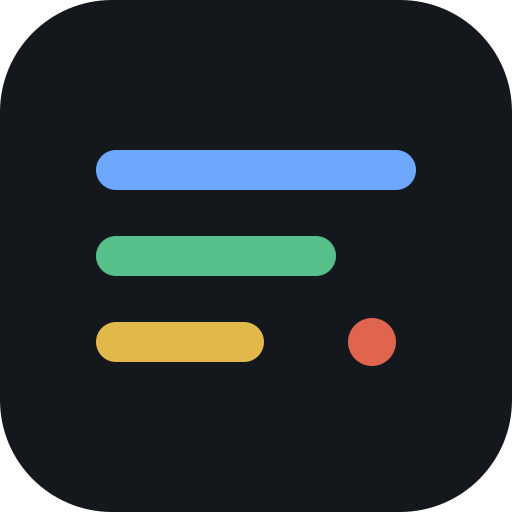
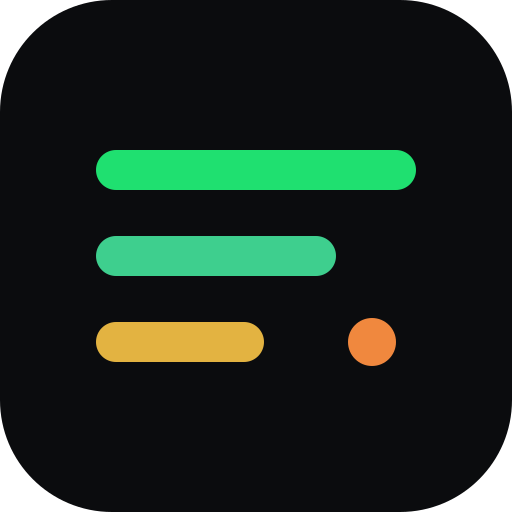
feat(web): Mastra-grade reskin — command center, docs site, brand mark

Changed region(s): [[0.1875, 0.2812, 0.8125, 0.375], [0.1875, 0.4375, 0.6562, 0.5625], [0.6562, 0.625, 0.7812, 0.7188]]

diff --git a/src/web/index.html b/src/web/index.html
@@ -4,7 +4,7 @@
 <meta charset="utf-8" />
 <meta name="viewport" content="width=device-width, initial-scale=1, viewport-fit=cover" />
 <title>omp-squad · command center</title>
-<meta name="theme-color" content="#0c0e12" />
+<meta name="theme-color" content="#060607" />
 <meta name="color-scheme" content="light dark" />
 <link rel="manifest" href="/manifest.webmanifest" />
 <link rel="icon" href="/icon.svg" />
@@ -21,7 +21,7 @@
   if(t==="light"||t==="dark")document.documentElement.dataset.theme=t;
   var eff=t||(matchMedia("(prefers-color-scheme: light)").matches?"light":"dark");
   var m=document.querySelector('meta[name="theme-color"]');
-  if(m)m.content=eff==="light"?"#f6f7f9":"#0c0e12";
+  if(m)m.content=eff==="light"?"#f6f7f9":"#060607";
 }catch(e){}})();
 </script>
 <style>
@@ -37,33 +37,34 @@
     /* typography */
     --font-sans: ui-sans-serif,system-ui,-apple-system,"Segoe UI",Roboto,Helvetica,Arial,sans-serif;
     --font-mono: ui-monospace,SFMono-Regular,"SF Mono",Menlo,Consolas,"Liberation Mono",monospace;
-    --fs-11:11px; --fs-12:12px; --fs-13:13px; --fs-14:14px; --fs-15:15px; --fs-16:16px; --fs-20:20px; --fs-24:24px;
+    --fs-11:11px; --fs-12:12px; --fs-13:13px; --fs-14:14px; --fs-15:15px; --fs-16:16px; --fs-20:20px; --fs-24:24px; --fs-28:28px; --fs-32:32px;
     --fw-normal:400; --fw-medium:500; --fw-semibold:600; --fw-bold:700;
-    --lh-tight:1.25; --lh-base:1.45; --lh-relaxed:1.6;
+    --lh-tight:1.2; --lh-base:1.45; --lh-relaxed:1.6;
     /* spacing — 4px base */
     --sp-1:4px; --sp-2:8px; --sp-3:12px; --sp-4:16px; --sp-5:20px; --sp-6:24px; --sp-8:32px;
     /* radius */
-    --r-sm:5px; --r-md:8px; --r-lg:12px; --r-full:999px;
+    --r-sm:6px; --r-md:10px; --r-lg:14px; --r-full:999px;
     /* motion */
-    --dur-fast:.12s; --dur-base:.2s; --ease:cubic-bezier(.2,.7,.2,1);
+    --dur-fast:.09s; --dur-base:.16s; --ease:cubic-bezier(.4,0,.2,1);
   }
-  /* ── DARK (default) ───────────────────────────────────────────────────────── */
+  /* ── DARK (default) — near-black canvas · hairline borders · one green signal ── */
   :root, html[data-theme="dark"] {
     color-scheme: dark;
-    --surface-0:#0c0e12; --surface-1:#13161b; --surface-2:#1a1e25; --surface-3:#21262e;
-    --border:#272d36; --border-strong:#39414c;
-    --text-1:#e7eaee; --text-2:#9aa6b2; --text-3:#828e9b;
-    --accent:#5b9dfb; --accent-hover:#7fb2fc; --accent-subtle:#16243a; --on-accent:#08111c;
-    --success:#56c08a; --success-subtle:#142a20;
-    --warning:#e0b54a; --warning-subtle:#2b2613;
-    --attention:#ec8467; --attention-subtle:#2e1c15;
-    --danger:#ef6a5e;  --danger-subtle:#2e1714;
-    --neutral:#828e9b; --neutral-subtle:#1c222a;
+    --surface-0:#060607; --surface-1:#0d0e10; --surface-2:#141518; --surface-3:#1b1d21;
+    --border:rgba(255,255,255,.08); --border-strong:rgba(255,255,255,.17);
+    --text-1:#eceef0; --text-2:#9a9ca1; --text-3:#6e7278;
+    --accent:#1fe070; --accent-hover:#46ed8d; --accent-subtle:#0c2a1a; --on-accent:#04140b;
+    --success:#3ecf8e; --success-subtle:#0f2a1d;
+    --warning:#e3b341; --warning-subtle:#2a2310;
+    --attention:#f0883e; --attention-subtle:#2e1d10;
+    --danger:#f7574f;  --danger-subtle:#2c1413;
+    --neutral:#7d828b; --neutral-subtle:#16181c;
     --info:var(--accent); --info-subtle:var(--accent-subtle);
-    --ring:#5b9dfb; --overlay:rgba(4,6,9,.62);
-    --shadow-1:0 1px 2px rgba(0,0,0,.40);
-    --shadow-2:0 4px 14px rgba(0,0,0,.45);
-    --shadow-3:0 16px 40px rgba(0,0,0,.55);
+    --ring:#1fe070; --overlay:rgba(0,0,0,.66);
+    --glow:color-mix(in srgb, var(--accent) 14%, transparent); --glow2:color-mix(in srgb, var(--accent) 7%, transparent);
+    --shadow-1:0 1px 2px rgba(0,0,0,.5);
+    --shadow-2:0 8px 24px -14px rgba(0,0,0,.7);
+    --shadow-3:0 28px 70px -28px rgba(0,0,0,.8);
     /* legacy aliases */
     --bg:var(--surface-0); --panel:var(--surface-1); --panel2:var(--surface-2); --line:var(--border);
     --ink:var(--text-1); --mut:var(--text-2); --dim:var(--text-3);
@@ -75,17 +76,18 @@
     --surface-0:#f6f7f9; --surface-1:#ffffff; --surface-2:#eef0f3; --surface-3:#e6e9ed;
     --border:#dde1e6; --border-strong:#c2c9d1;
     --text-1:#11161c; --text-2:#566069; --text-3:#636d79;
-    --accent:#2563eb; --accent-hover:#1d4ed8; --accent-subtle:#eaf1fd; --on-accent:#ffffff;
+    --accent:#0a8f4d; --accent-hover:#077a41; --accent-subtle:#e2f6ea; --on-accent:#ffffff;
     --success:#15724b; --success-subtle:#e1f4ea;
     --warning:#80600a; --warning-subtle:#faedca;
-    --attention:#bd3d09; --attention-subtle:#fcebe1;
+    --attention:#b5460c; --attention-subtle:#fcebe1;
     --danger:#bf3128;  --danger-subtle:#fde8e5;
     --neutral:#636d79; --neutral-subtle:#ececef;
     --info:var(--accent); --info-subtle:var(--accent-subtle);
-    --ring:#2563eb; --overlay:rgba(16,24,40,.32);
+    --ring:#0a8f4d; --overlay:rgba(16,24,40,.32);
+    --glow:transparent; --glow2:transparent;
     --shadow-1:0 1px 2px rgba(16,24,40,.06);
-    --shadow-2:0 4px 14px rgba(16,24,40,.08);
-    --shadow-3:0 16px 40px rgba(16,24,40,.14);
+    --shadow-2:0 8px 24px -14px rgba(16,24,40,.12);
+    --shadow-3:0 24px 60px -28px rgba(16,24,40,.18);
     --bg:var(--surface-0); --panel:var(--surface-1); --panel2:var(--surface-2); --line:var(--border);
     --ink:var(--text-1); --mut:var(--text-2); --dim:var(--text-3);
     --ok:var(--success); --work:var(--warning); --input:var(--attention); --err:var(--danger); --stop:var(--neutral);
@@ -97,26 +99,27 @@
       --surface-0:#f6f7f9; --surface-1:#ffffff; --surface-2:#eef0f3; --surface-3:#e6e9ed;
       --border:#dde1e6; --border-strong:#c2c9d1;
       --text-1:#11161c; --text-2:#566069; --text-3:#636d79;
-      --accent:#2563eb; --accent-hover:#1d4ed8; --accent-subtle:#eaf1fd; --on-accent:#ffffff;
+      --accent:#0a8f4d; --accent-hover:#077a41; --accent-subtle:#e2f6ea; --on-accent:#ffffff;
       --success:#15724b; --success-subtle:#e1f4ea;
       --warning:#80600a; --warning-subtle:#faedca;
-      --attention:#bd3d09; --attention-subtle:#fcebe1;
+      --attention:#b5460c; --attention-subtle:#fcebe1;
       --danger:#bf3128;  --danger-subtle:#fde8e5;
       --neutral:#636d79; --neutral-subtle:#ececef;
       --info:var(--accent); --info-subtle:var(--accent-subtle);
-      --ring:#2563eb; --overlay:rgba(16,24,40,.32);
+      --ring:#0a8f4d; --overlay:rgba(16,24,40,.32);
+      --glow:transparent; --glow2:transparent;
       --shadow-1:0 1px 2px rgba(16,24,40,.06);
-      --shadow-2:0 4px 14px rgba(16,24,40,.08);
-      --shadow-3:0 16px 40px rgba(16,24,40,.14);
+      --shadow-2:0 8px 24px -14px rgba(16,24,40,.12);
+      --shadow-3:0 24px 60px -28px rgba(16,24,40,.18);
       --bg:var(--surface-0); --panel:var(--surface-1); --panel2:var(--surface-2); --line:var(--border);
       --ink:var(--text-1); --mut:var(--text-2); --dim:var(--text-3);
       --ok:var(--success); --work:var(--warning); --input:var(--attention); --err:var(--danger); --stop:var(--neutral);
     }
   }
   * { box-sizing:border-box; }
-  body { margin:0; font:var(--fs-14)/var(--lh-base) var(--font-sans); background:var(--bg); color:var(--ink); height:100vh; display:flex; flex-direction:column; -webkit-font-smoothing:antialiased; text-rendering:optimizeLegibility; }
+  body { margin:0; font:var(--fs-14)/var(--lh-base) var(--font-sans); background:radial-gradient(1100px 620px at 88% -12%, var(--glow,transparent), transparent 60%), radial-gradient(820px 520px at 2% -2%, var(--glow2,transparent), transparent 58%), var(--bg); background-attachment:fixed; color:var(--ink); height:100vh; display:flex; flex-direction:column; -webkit-font-smoothing:antialiased; text-rendering:optimizeLegibility; }
   a { color:var(--accent); text-decoration:none; }
-  header { display:flex; align-items:center; gap:var(--sp-3); padding:var(--sp-3) var(--sp-4); border-bottom:1px solid var(--border); background:var(--surface-1); }
+  header { display:flex; align-items:center; gap:var(--sp-3); padding:var(--sp-3) var(--sp-4); border-bottom:1px solid var(--border); background:color-mix(in srgb, var(--surface-0) 82%, transparent); backdrop-filter:saturate(140%) blur(10px); -webkit-backdrop-filter:saturate(140%) blur(10px); }
   header h1 { display:inline-flex; align-items:baseline; gap:var(--sp-2); font-size:var(--fs-15); margin:0; letter-spacing:-.01em; font-weight:var(--fw-semibold); color:var(--text-1); white-space:nowrap; }
   header h1 .sq { color:var(--accent); }
   header h1 .cc { font-size:var(--fs-12); font-weight:var(--fw-normal); letter-spacing:0; color:var(--text-3); }
@@ -131,8 +134,8 @@
   .offline { background:var(--danger); color:var(--on-accent); text-align:center; padding:var(--sp-2) var(--sp-3); font-size:var(--fs-13); font-weight:var(--fw-semibold); }
   .visually-hidden { position:absolute; width:1px; height:1px; margin:-1px; padding:0; overflow:hidden; clip:rect(0 0 0 0); white-space:nowrap; border:0; }
   button { font:inherit; background:var(--surface-2); color:var(--text-1); border:1px solid var(--border); border-radius:var(--r-sm); padding:6px 12px; cursor:pointer; }
-  button:hover { border-color:var(--border-strong); } button.primary { background:var(--accent); color:var(--on-accent); border-color:var(--accent); font-weight:var(--fw-semibold); }
-  button.primary:hover { background:var(--accent-hover); border-color:var(--accent-hover); } button.danger:hover { border-color:var(--danger); color:var(--danger); } button.sm { padding:3px 8px; font-size:var(--fs-12); }
+  button:hover { border-color:var(--border-strong); } button.primary { background:var(--accent); color:var(--on-accent); border-color:var(--accent); font-weight:var(--fw-semibold); box-shadow:0 8px 22px -12px color-mix(in srgb, var(--accent) 65%, transparent); }
+  button.primary:hover { background:var(--accent-hover); border-color:var(--accent-hover); box-shadow:0 10px 26px -10px color-mix(in srgb, var(--accent) 75%, transparent); } button.danger:hover { border-color:var(--danger); color:var(--danger); } button.sm { padding:3px 8px; font-size:var(--fs-12); }
   main { flex:1; display:grid; grid-template-columns:300px 1fr; min-height:0; }
   main.nav-collapsed { grid-template-columns:54px 1fr; }
   main.nav-collapsed .navrow .lbl, main.nav-collapsed .navrow .ct, main.nav-collapsed .side-h, main.nav-collapsed .proj .pn, main.nav-collapsed .proj .pmeta { display:none; }
@@ -159,7 +162,7 @@
   .d { width:8px; height:8px; border-radius:var(--r-full); display:inline-block; }
   .d.working{background:var(--work)} .d.idle{background:var(--ok)} .d.input{background:var(--input)} .d.error{background:var(--err)} .d.starting{background:var(--accent)} .d.stopped{background:var(--stop)}
   .dseg { display:inline-flex; align-items:center; gap:var(--sp-1); font-size:var(--fs-11); color:var(--text-2); line-height:1; font-variant-numeric:tabular-nums; }
-  .empty { color:var(--text-3); padding:var(--sp-6) var(--sp-5); text-align:center; font-size:var(--fs-13); line-height:var(--lh-base); }
+  .empty { color:var(--text-3); padding:var(--sp-6) var(--sp-5); text-align:center; font-size:var(--fs-13); line-height:var(--lh-base); border:1px solid var(--border); border-radius:var(--r-md); margin:var(--sp-2); background-image:radial-gradient(circle, color-mix(in srgb, var(--text-3) 10%, transparent) 1px, transparent 1.6px); background-size:18px 18px; }
   .empty strong { display:block; color:var(--text-2); font-size:var(--fs-13); font-weight:var(--fw-semibold); margin-bottom:var(--sp-1); }
   .empty button { display:block; margin:var(--sp-3) auto 0; min-height:40px; padding:0 var(--sp-4); }
   /* unified left nav */
@@ -177,7 +180,7 @@
   .crumb { padding:var(--sp-3) var(--sp-4); border-bottom:1px solid var(--border); background:var(--surface-1); display:flex; align-items:center; gap:var(--sp-2); font-size:var(--fs-13); color:var(--text-2); }
   .crumb .seg { color:var(--text-2); cursor:pointer; padding:2px 6px; margin:0 -2px; border-radius:var(--r-sm); } .crumb .seg:hover { color:var(--text-1); background:var(--surface-2); } .crumb .cur { color:var(--text-1); font-weight:var(--fw-semibold); }
   .body { flex:1; overflow-y:auto; min-height:0; }
-  .nodetail { height:100%; display:flex; align-items:center; justify-content:center; color:var(--dim); }
+  .nodetail { height:100%; display:flex; flex-direction:column; align-items:center; justify-content:center; gap:var(--sp-2); color:var(--text-3); font-size:var(--fs-13); text-align:center; background-image:radial-gradient(circle, color-mix(in srgb, var(--text-3) 12%, transparent) 1px, transparent 1.6px); background-size:22px 22px; }
   /* ── project view ─────────────────────────────────────────────────────────── */
   .pv { padding:var(--sp-4) var(--sp-5); display:flex; flex-direction:column; gap:var(--sp-4); max-width:1320px; }
   .pv h2 { margin:0; font-size:var(--fs-20); font-weight:var(--fw-semibold); letter-spacing:-.01em; color:var(--text-1); }
@@ -228,7 +231,7 @@
   .lane-h { padding:var(--sp-2) var(--sp-3); font-size:var(--fs-11); text-transform:uppercase; letter-spacing:.06em; font-weight:var(--fw-semibold); color:var(--text-3); border-bottom:1px solid var(--border); display:flex; justify-content:space-between; align-items:center; gap:var(--sp-2); position:sticky; top:0; background:var(--surface-0); border-radius:var(--r-md) var(--r-md) 0 0; }
   .lane-n { color:var(--text-2); background:var(--surface-2); border-radius:var(--r-full); min-width:20px; text-align:center; padding:0 6px; font-variant-numeric:tabular-nums; font-size:var(--fs-11); }
   .lane-body { padding:var(--sp-2); display:flex; flex-direction:column; gap:var(--sp-2); overflow-y:auto; }
-  .lane-empty { color:var(--text-3); font-size:var(--fs-12); text-align:center; padding:var(--sp-4) var(--sp-2); border:1px dashed var(--border); border-radius:var(--r-sm); }
+  .lane-empty { color:var(--text-3); font-size:var(--fs-12); text-align:center; padding:var(--sp-5) var(--sp-3); border:1px dashed var(--border); border-radius:var(--r-md); background-image:radial-gradient(circle, color-mix(in srgb, var(--text-3) 10%, transparent) 1px, transparent 1.6px); background-size:16px 16px; }
   .fcard { border:1px solid var(--border); border-radius:var(--r-md); padding:var(--sp-2) var(--sp-3); cursor:pointer; background:var(--surface-1); display:flex; flex-direction:column; gap:var(--sp-2); box-shadow:var(--shadow-1); }
   .fcard:hover { border-color:var(--border-strong); box-shadow:var(--shadow-2); }
   .fcard.div { border-color:var(--danger); box-shadow:inset 3px 0 0 var(--danger); }
@@ -253,7 +256,7 @@
   .rtrack { display:flex; gap:3px; flex:1; min-width:120px; }
   .rc { flex:1; height:16px; border-radius:var(--r-sm); background:var(--surface-2); border:1px solid var(--border); }
   .rc.f.working{background:var(--warning);border-color:var(--warning)} .rc.f.input{background:var(--attention);border-color:var(--attention)} .rc.f.idle{background:var(--success);border-color:var(--success)} .rc.f.error{background:var(--danger);border-color:var(--danger)} .rc.f.stopped{background:var(--neutral);border-color:var(--neutral)} .rc.f.starting{background:var(--accent);border-color:var(--accent)}
-  .rc.c { outline:2px solid var(--accent); outline-offset:1px; box-shadow:0 0 0 2px var(--accent-subtle); }
+  .rc.c { outline:2px solid var(--accent); outline-offset:1px; box-shadow:0 0 0 2px var(--accent-subtle), 0 0 12px -2px color-mix(in srgb, var(--accent) 55%, transparent); }
   .rlabel { color:var(--text-2); font-size:var(--fs-12); min-width:140px; font-variant-numeric:tabular-nums; }
   .rmeta { color:var(--text-3); font-size:var(--fs-12); white-space:nowrap; font-variant-numeric:tabular-nums; }
   /* ── agent detail ─────────────────────────────────────────────────────────── */
@@ -313,8 +316,8 @@
   .dl { display:block; padding:0 var(--sp-2); }
   .dl.add { color:var(--success); background:var(--success-subtle); } .dl.del { color:var(--danger); background:var(--danger-subtle); } .dl.hunk { color:var(--accent); background:var(--accent-subtle); }
   /* ── loading / empty / error primitives ───────────────────────────────────── */
-  .estate { text-align:center; padding:var(--sp-8) var(--sp-5); color:var(--text-3); display:flex; flex-direction:column; align-items:center; gap:var(--sp-2); }
-  .estate .ei { font-size:var(--fs-24); line-height:1; opacity:.75; }
+  .estate { text-align:center; padding:var(--sp-8) var(--sp-5); color:var(--text-3); display:flex; flex-direction:column; align-items:center; gap:var(--sp-2); border:1px solid var(--border); border-radius:var(--r-lg); background-image:radial-gradient(circle, color-mix(in srgb, var(--text-3) 11%, transparent) 1px, transparent 1.6px); background-size:22px 22px; }
+  .estate .ei { font-size:var(--fs-24); line-height:1; opacity:.9; width:56px; height:56px; display:flex; align-items:center; justify-content:center; border-radius:var(--r-full); background:color-mix(in srgb, var(--surface-2) 70%, transparent); border:1px solid var(--border); margin-bottom:var(--sp-1); }
   .estate strong { display:block; color:var(--text-1); font-size:var(--fs-14); font-weight:var(--fw-semibold); }
   .estate span { color:var(--text-2); font-size:var(--fs-13); max-width:44ch; line-height:var(--lh-base); }
   .estate.err strong { color:var(--danger); }
@@ -338,8 +341,8 @@
   .cmpl .ci { padding:var(--sp-2) var(--sp-3); border-radius:var(--r-md); cursor:pointer; } .cmpl .ci:hover { background:var(--surface-2); }
   .cmpl .ci.sel { background:var(--accent-subtle); box-shadow:inset 2px 0 0 var(--accent); }
   .cmpl .ci .top { display:flex; align-items:baseline; gap:8px; }
-  .cmpl .ci .nm { color:var(--accent); font-family:ui-monospace,monospace; font-size:13px; }
-  .cmpl .ci .hint { color:var(--dim); font-size:11px; font-family:ui-monospace,monospace; }
+  .cmpl .ci .nm { color:var(--accent); font-family:var(--font-mono); font-size:var(--fs-13); }
+  .cmpl .ci .hint { color:var(--dim); font-size:var(--fs-11); font-family:var(--font-mono); }
   .cmpl .ci .src { margin-left:auto; color:var(--dim); font-size:10px; text-transform:uppercase; letter-spacing:.05em; }
   .cmpl .ci .desc { color:var(--mut); font-size:11px; white-space:nowrap; overflow:hidden; text-overflow:ellipsis; }
   .cmpl .none { padding:6px 10px; color:var(--dim); font-size:12px; }
@@ -406,7 +409,9 @@
   .acard .nm, .fcard .nm, .proj .pn, .rlabel { overflow:hidden; text-overflow:ellipsis; white-space:nowrap; min-width:0; }
   .ahead .sub { overflow-wrap:anywhere; }
   @media (prefers-reduced-motion: no-preference) {
-    button, .navrow, .proj, .acard, .fcard, .rlane, .issuerow, .chip, .stat[data-go], .crumb .seg { transition:border-color var(--dur-fast) var(--ease), background-color var(--dur-fast) var(--ease), color var(--dur-fast) var(--ease), box-shadow var(--dur-fast) var(--ease); }
+    button, .navrow, .proj, .acard, .fcard, .rlane, .issuerow, .chip, .stat[data-go], .crumb .seg { transition:border-color var(--dur-fast) var(--ease), background-color var(--dur-fast) var(--ease), color var(--dur-fast) var(--ease), box-shadow var(--dur-fast) var(--ease), transform var(--dur-fast) var(--ease); }
+    .acard:hover, .fcard:hover, .stat[data-go]:hover, .rlane:hover { transform:translateY(-1px); }
+    .acard:hover:not(.needs), .fcard:hover:not(.needs):not(.div), .stat[data-go]:hover, .rlane:hover { box-shadow:var(--shadow-2), 0 10px 24px -16px color-mix(in srgb, var(--accent) 38%, transparent); }
     button:active, .acard:active, .fcard:active, .rlane:active { transform:translateY(1px); }
     @keyframes attnPulse { 0%,100% { opacity:1 } 50% { opacity:.5 } }
     .navrow.attn .ico, .toggle.attn { animation:attnPulse 1.6s ease-in-out infinite; }
@@ -418,7 +423,7 @@
   @media (prefers-reduced-motion: reduce) { *, *::before, *::after { animation-duration:.001ms !important; animation-iteration-count:1 !important; transition-duration:.001ms !important; } }
   /* overview / home — the first thing you see; make it inviting + dense */
   .home .hero { padding:6px 2px 2px; }
-  .home .hero h2 { font-size:var(--fs-24); margin:0 0 4px; font-weight:var(--fw-semibold); letter-spacing:-.01em; color:var(--text-1); }
+  .home .hero h2 { font-size:var(--fs-28); margin:0 0 5px; font-weight:var(--fw-bold); letter-spacing:-.025em; color:var(--text-1); }
   .home .herobox { background:var(--surface-2); border-color:var(--border); }
   .home .herobox .spawnrow input { padding:11px 13px; font-size:15px; }
   .chips { display:flex; flex-wrap:wrap; gap:6px; margin-top:11px; }
@@ -541,13 +546,13 @@ function showLogin() {
   if (_loginShown || document.getElementById("loginOverlay")) return; _loginShown = true;
   const el = document.createElement("div");
   el.id = "loginOverlay";
-  el.style.cssText = "position:fixed;inset:0;z-index:200;display:flex;align-items:center;justify-content:center;background:var(--bg);padding:24px";
-  el.innerHTML = `<div style="width:360px;max-width:92vw;background:var(--surface-1);border:1px solid var(--border-strong);border-radius:var(--r-lg);padding:20px;box-shadow:var(--shadow-3)">
-    <div style="display:flex;align-items:center;gap:10px;margin-bottom:6px"><img src="/icon.svg" width="28" height="28" alt=""/><strong style="font-size:15px"><span style="color:var(--accent)">omp</span>-squad</strong></div>
-    <div style="color:var(--mut);font-size:13px;margin-bottom:14px">Enter the access token printed when the daemon started.</div>
-    <input id="loginToken" type="password" inputmode="text" autocomplete="off" placeholder="access token" style="width:100%;box-sizing:border-box;background:var(--panel);border:1px solid var(--line);color:var(--ink);padding:11px 12px;border-radius:8px;font:inherit;outline:none" />
-    <div id="loginErr" style="color:var(--err);font-size:12px;height:16px;margin:6px 2px"></div>
-    <button id="loginGo" class="primary" style="width:100%;padding:11px">Sign in</button></div>`;
+  el.style.cssText = "position:fixed;inset:0;z-index:200;display:flex;align-items:center;justify-content:center;background:radial-gradient(900px 520px at 50% -12%, var(--glow,transparent), transparent 60%), var(--bg);padding:24px";
+  el.innerHTML = `<div style="width:380px;max-width:92vw;background:var(--surface-1);border:1px solid var(--border-strong);border-radius:var(--r-lg);padding:24px;box-shadow:var(--shadow-3)">
+    <div style="display:flex;align-items:center;gap:10px;margin-bottom:8px"><img src="/icon.svg" width="28" height="28" alt=""/><strong style="font-size:16px;letter-spacing:-.01em"><span style="color:var(--accent)">omp</span>-squad</strong></div>
+    <div style="color:var(--text-2);font-size:13px;line-height:1.5;margin-bottom:16px">Enter the access token printed when the daemon started.</div>
+    <input id="loginToken" type="password" inputmode="text" autocomplete="off" placeholder="access token" style="width:100%;box-sizing:border-box;background:var(--surface-2);border:1px solid var(--border);color:var(--text-1);padding:11px 12px;border-radius:var(--r-sm);font:inherit;outline:none" />
+    <div id="loginErr" style="color:var(--err);font-size:12px;height:16px;margin:8px 2px"></div>
+    <button id="loginGo" class="primary" style="width:100%;padding:11px;border-radius:var(--r-sm)">Sign in</button></div>`;
   document.body.appendChild(el);
   const input = el.querySelector("#loginToken"); const go = el.querySelector("#loginGo"); const err = el.querySelector("#loginErr");
   input.focus();
@@ -754,9 +759,9 @@ function setFavicon(n) {
   let link = document.getElementById("favicon");
   if (!link) { link = document.createElement("link"); link.id = "favicon"; link.rel = "icon"; document.head.appendChild(link); }
   const c = document.createElement("canvas"); c.width = c.height = 32; const x = c.getContext("2d");
-  x.fillStyle = "#14181d"; x.fillRect(0, 0, 32, 32);
-  x.fillStyle = "#6ea8fe"; x.font = "bold 22px sans-serif"; x.textAlign = "center"; x.textBaseline = "middle"; x.fillText("◆", 16, 17);
-  if (n > 0) { x.fillStyle = "#e0654f"; x.beginPath(); x.arc(23, 9, 8, 0, 2 * Math.PI); x.fill(); x.fillStyle = "#fff"; x.font = "bold 12px sans-serif"; x.fillText(n > 9 ? "9+" : String(n), 23, 10); }
+  x.fillStyle = "#0b0c0e"; x.fillRect(0, 0, 32, 32);
+  x.fillStyle = "#1fe070"; x.font = "bold 22px sans-serif"; x.textAlign = "center"; x.textBaseline = "middle"; x.fillText("◆", 16, 17);
+  if (n > 0) { x.fillStyle = "#f0883e"; x.beginPath(); x.arc(23, 9, 8, 0, 2 * Math.PI); x.fill(); x.fillStyle = "#fff"; x.font = "bold 12px sans-serif"; x.fillText(n > 9 ? "9+" : String(n), 23, 10); }
   link.href = c.toDataURL("image/png");
 }
 
@@ -1970,7 +1975,7 @@ function boot() {
     btn.textContent = t === "light" ? "☀" : "☾";
     btn.setAttribute("aria-label", t === "light" ? "Switch to dark theme" : "Switch to light theme");
     btn.setAttribute("aria-pressed", String(t === "dark"));
-    if (meta) meta.content = t === "light" ? "#f6f7f9" : "#0c0e12";
+    if (meta) meta.content = t === "light" ? "#f6f7f9" : "#060607";
   };
   sync();
   btn.onclick = () => {

diff --git a/docs-site/app/global.css b/docs-site/app/global.css
@@ -2,6 +2,51 @@
 @import 'fumadocs-ui/css/neutral.css';
 @import 'fumadocs-ui/css/preset.css';
 
+/* ──────────────────────────────────────────────────────────────────────────
+   Mastra brand palette — override fumadocs-ui design tokens.
+   Token names + dark/light scoping confirmed in
+   node_modules/fumadocs-ui/css/lib/default-colors.css (light = @theme/:root,
+   dark = .dark). Values mirror the product UI (src/web/index.html theme blocks).
+   :root must precede .dark so the dark class wins at equal specificity.
+   ────────────────────────────────────────────────────────────────────────── */
+:root {
+  --color-fd-background: #f6f7f9;
+  --color-fd-foreground: #11161c;
+  --color-fd-muted: #eef0f3;
+  --color-fd-muted-foreground: #566069;
+  --color-fd-popover: #ffffff;
+  --color-fd-popover-foreground: #11161c;
+  --color-fd-card: #ffffff;
+  --color-fd-card-foreground: #11161c;
+  --color-fd-border: #dde1e6;
+  --color-fd-primary: #0a8f4d;
+  --color-fd-primary-foreground: #ffffff;
+  --color-fd-secondary: #eef0f3;
+  --color-fd-secondary-foreground: #11161c;
+  --color-fd-accent: #eef0f3;
+  --color-fd-accent-foreground: #11161c;
+  --color-fd-ring: #0a8f4d;
+}
+
+.dark {
+  --color-fd-background: #060607;
+  --color-fd-foreground: #eceef0;
+  --color-fd-muted: #141518;
+  --color-fd-muted-foreground: #9a9ca1;
+  --color-fd-popover: #0d0e10;
+  --color-fd-popover-foreground: #eceef0;
+  --color-fd-card: #0d0e10;
+  --color-fd-card-foreground: #eceef0;
+  --color-fd-border: rgba(255, 255, 255, 0.08);
+  --color-fd-primary: #1fe070;
+  --color-fd-primary-foreground: #04140b;
+  --color-fd-secondary: #141518;
+  --color-fd-secondary-foreground: #eceef0;
+  --color-fd-accent: #141518;
+  --color-fd-accent-foreground: #eceef0;
+  --color-fd-ring: #1fe070;
+}
+
 html {
   scrollbar-gutter: stable;
 }

diff --git a/docs-site/app/(home)/page.tsx b/docs-site/app/(home)/page.tsx
@@ -2,11 +2,25 @@ import Link from 'next/link';
 
 export default function HomePage() {
   return (
-    <div className="flex flex-col justify-center text-center flex-1">
-      <h1 className="text-2xl font-bold mb-4">Hello World</h1>
-      <p>
+    <div className="relative flex flex-1 flex-col items-center justify-center overflow-hidden px-6 py-24 text-center">
+      {/* subtle green ambient glow — dark only, mirrors product UI --glow */}
+      <div
+        aria-hidden
+        className="pointer-events-none absolute inset-0 -z-10 hidden dark:block"
+        style={{
+          background:
+            'radial-gradient(720px 420px at 50% 26%, color-mix(in srgb, var(--color-fd-primary) 13%, transparent), transparent 68%)',
+        }}
+      />
+      <h1 className="mb-5 max-w-3xl text-balance text-5xl font-bold tracking-tight sm:text-6xl">
+        Hello <span className="text-fd-primary">World</span>
+      </h1>
+      <p className="max-w-md text-balance text-fd-muted-foreground">
         You can open{' '}
-        <Link href="/docs" className="font-medium underline">
+        <Link
+          href="/docs"
+          className="font-medium text-fd-primary underline underline-offset-4 transition-colors hover:text-fd-primary/80"
+        >
           /docs
         </Link>{' '}
         and see the documentation.

diff --git a/docs-site/lib/layout.shared.tsx b/docs-site/lib/layout.shared.tsx
@@ -1,11 +1,15 @@
 import type { BaseLayoutProps } from 'fumadocs-ui/layouts/shared';
-import { appName, gitConfig } from './shared';
+import { gitConfig } from './shared';
 
 export function baseOptions(): BaseLayoutProps {
   return {
     nav: {
-      // JSX supported
-      title: appName,
+      // JSX supported — green "omp" mark mirrors the product UI brand
+      title: (
+        <span className="font-semibold tracking-tight">
+          <span className="text-fd-primary">omp</span>-squad
+        </span>
+      ),
     },
     githubUrl: `https://github.com/${gitConfig.user}/${gitConfig.repo}`,
   };